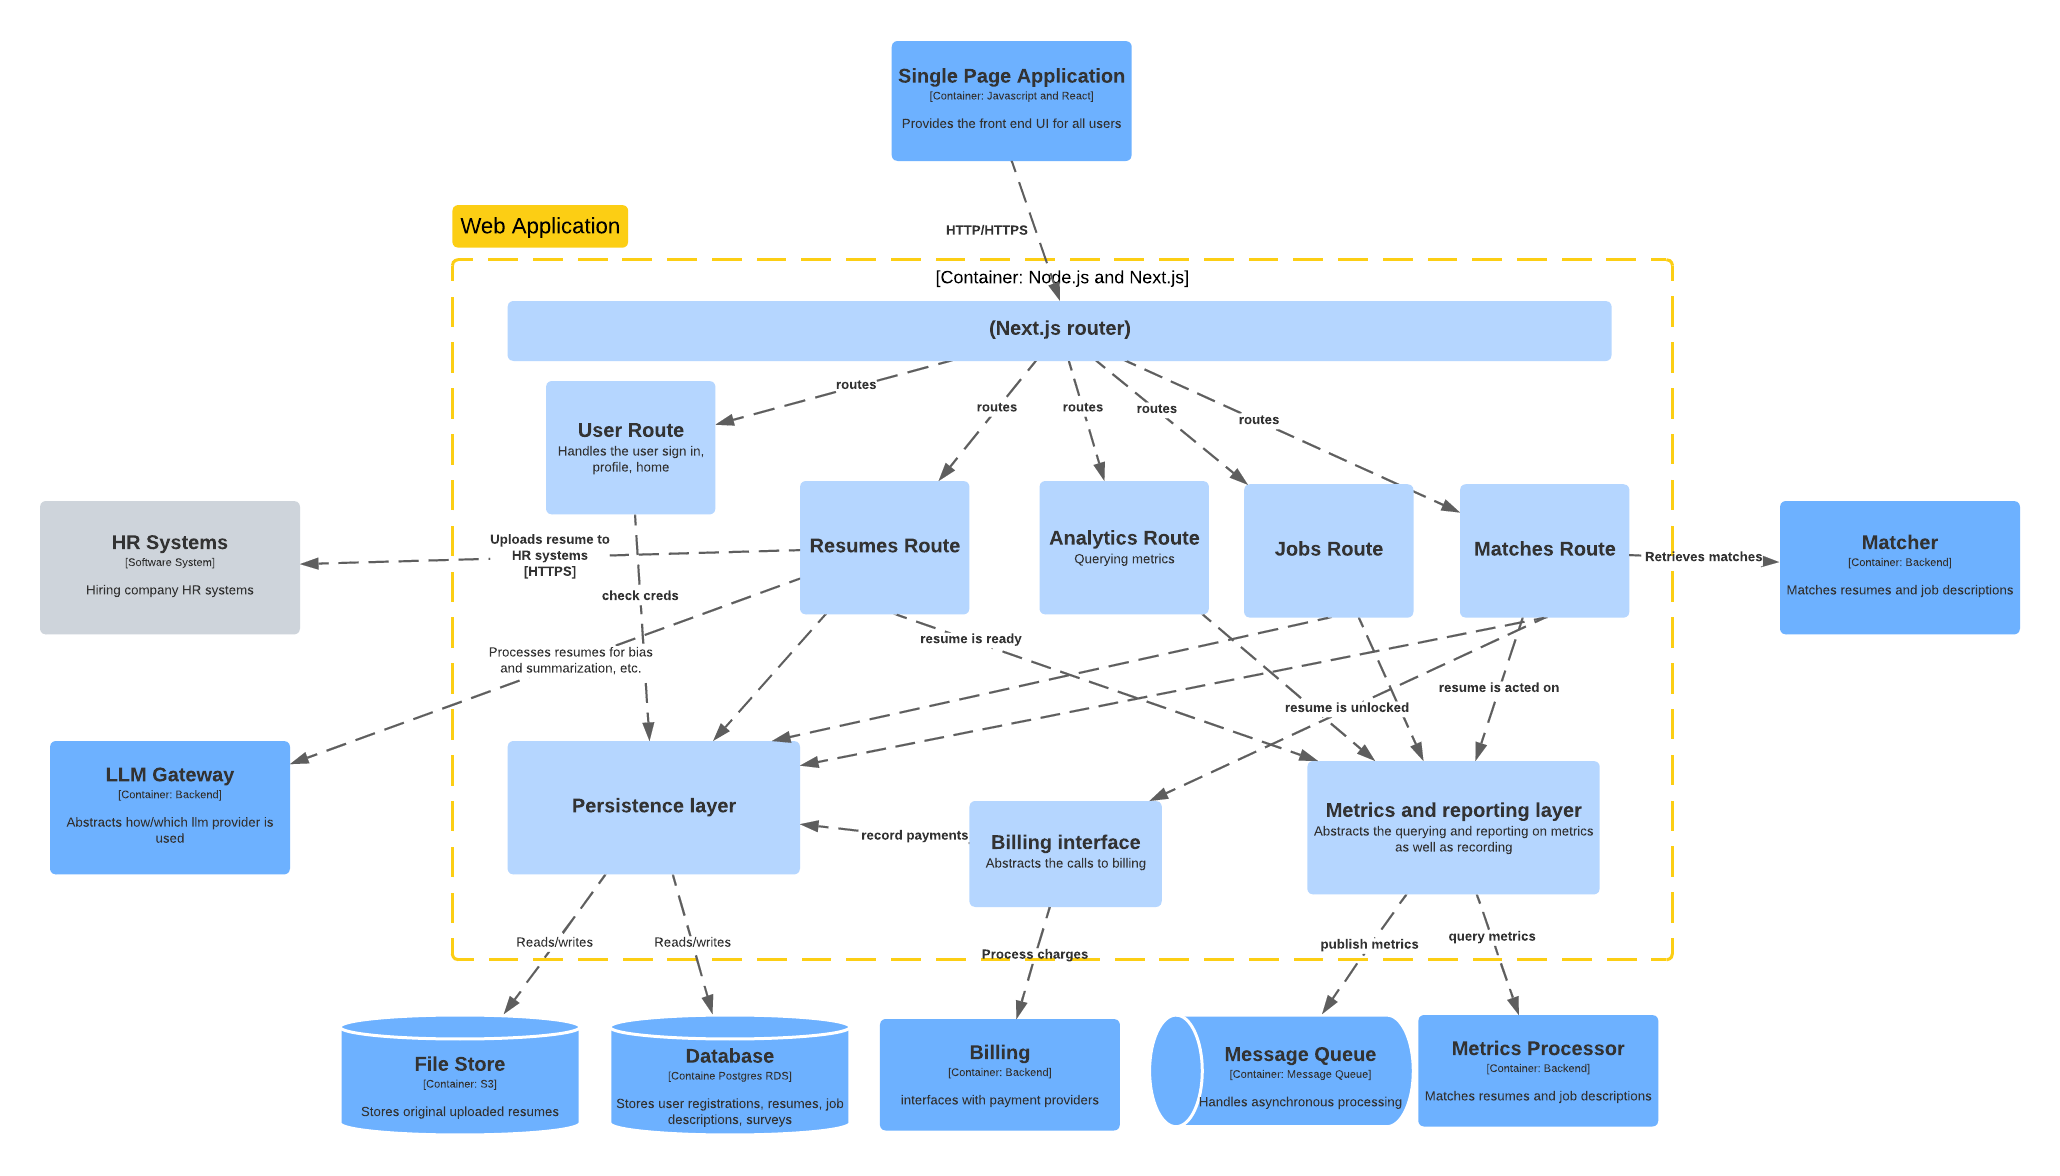
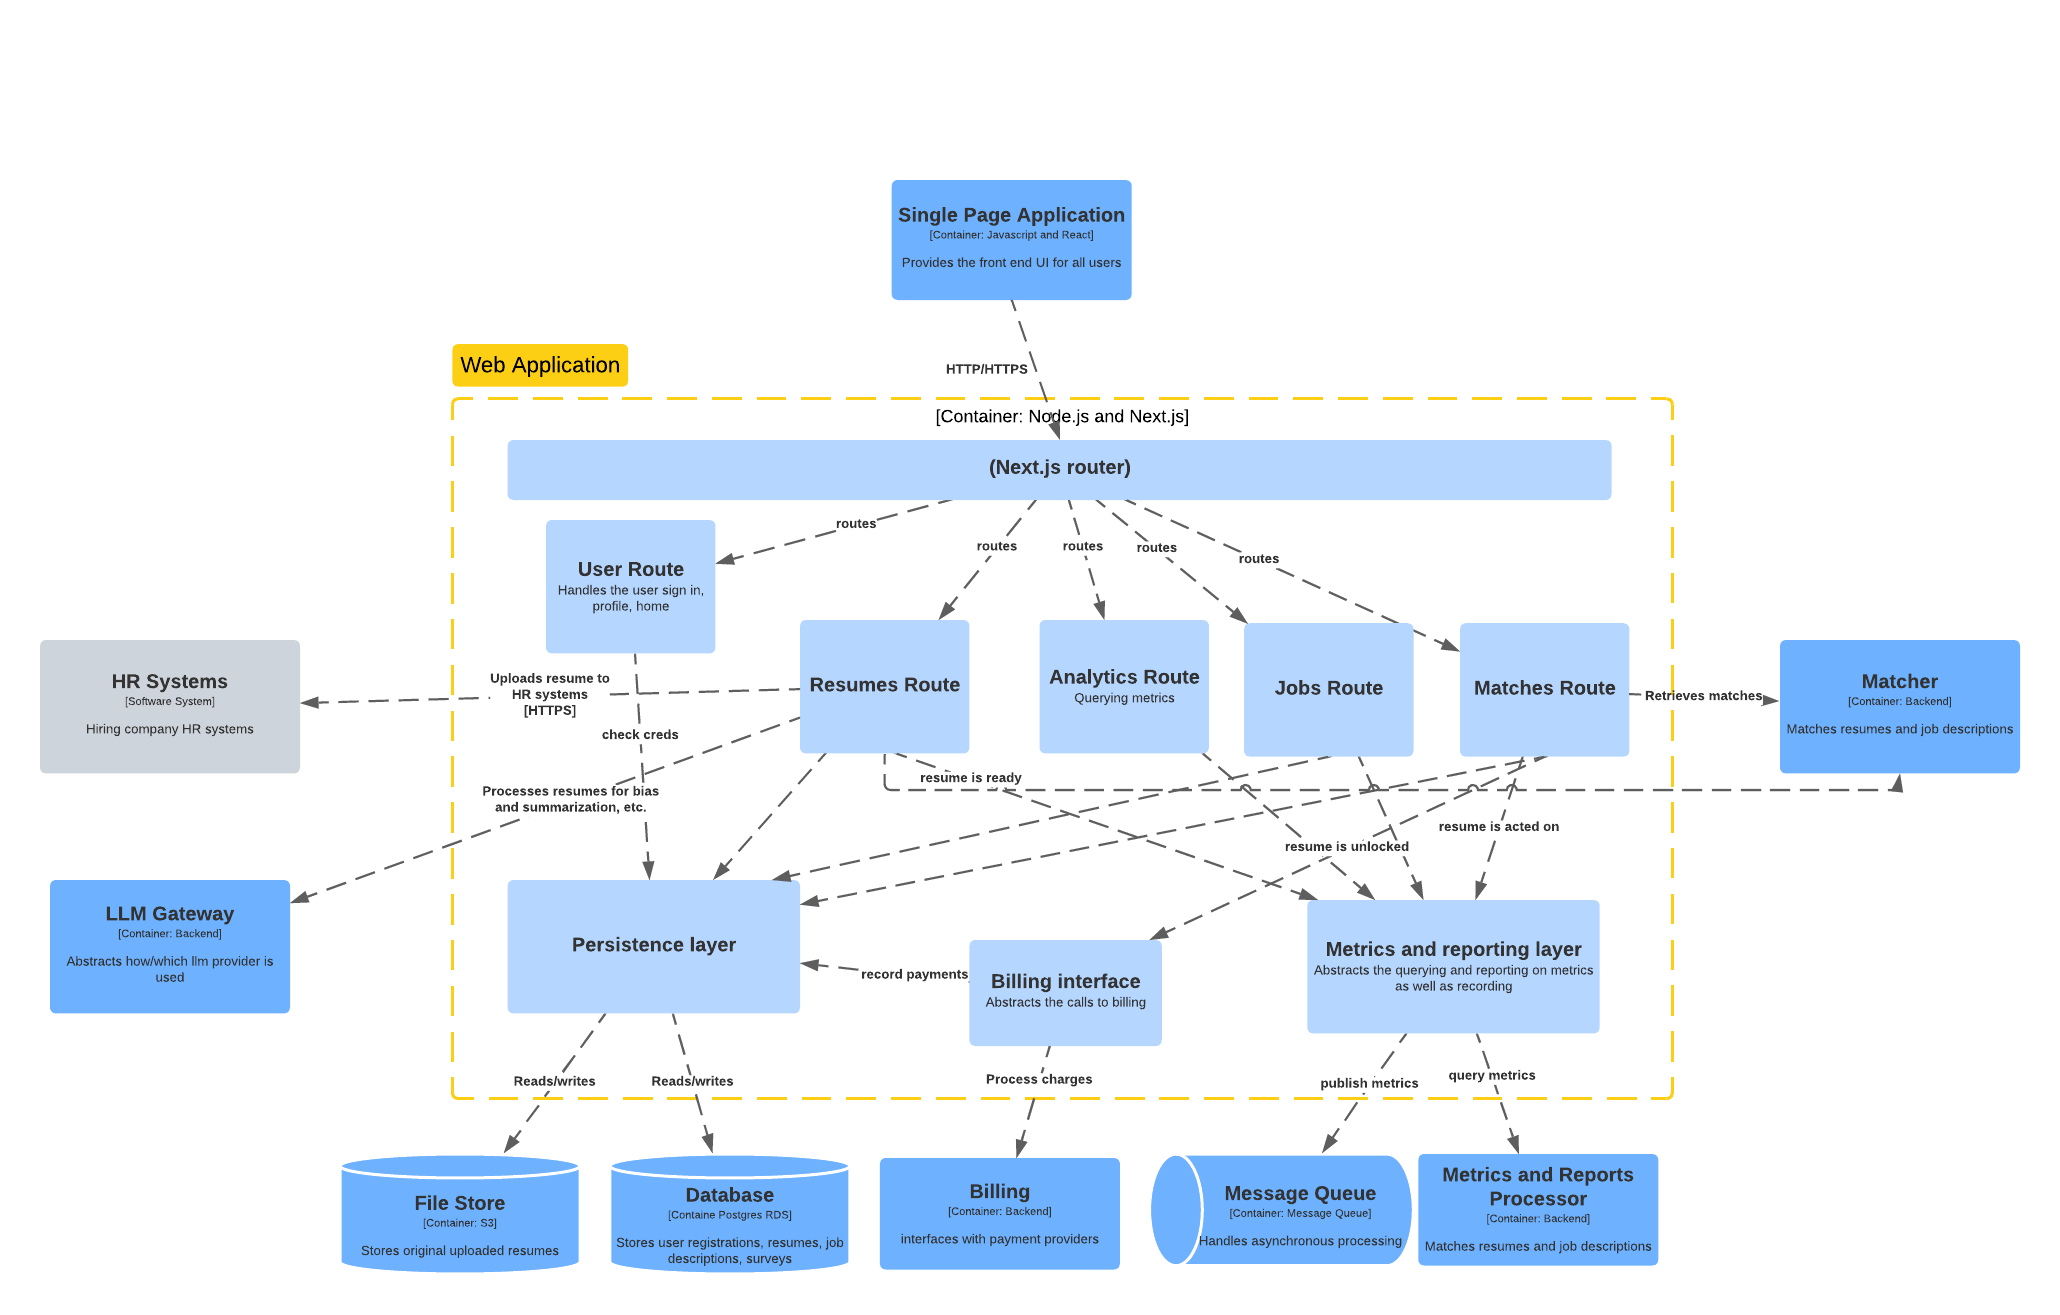
Update notes

Changed region(s): [[0.1553, 0.0306, 0.9942, 0.9796], [0.0, 0.4286, 0.1553, 0.7959], [0.2175, 0.1531, 0.3107, 0.2143]]

diff --git a/README.md b/README.md
@@ -167,10 +167,13 @@ Aspects of this application:
 - **Next.js router** - this is the server-side routing of requests into the Node.js server. Next.js has file-based routing that will be used.
 - **Routes** - routes contain the UI components and business logic for the particular route.
   - **Resumes route** - this handles all requests related to resumes: uploading, managing, viewing as well as summarizing and viewing suggestions.
+    - For the user to see SMART tips, the LLM gateway is called. To generate a SMART summary of the resume, we use a prompt for extracting SMART tips and recommendations, then show that to the user, so they can update their resume.
+    - Once the user marks the resume as "ready" to be submitted, the resume is anonymized and and a SMART summary is generated via the LLM gateway, then passed to the [Matcher](#matcher) service for further processing.
   - **Sign in route** - handles the authentication-specific requests for establishing user sessions. This also handles password resets and other user registration issues.
   - **Metrics route** - handles viewing and analyzing various metrics about ClearView.
   - **Billing route** - handles everything relating to billing and charging customers for resumes.
   - **Matches route** - exposes the ability to query matches for job descriptions and resumes.
+    - This queries the [matcher](#matcher) service for any
   - **Jobs route** - handles requests about jobs and descriptions. This allows CRUD on job descriptions.
 - **Persistence layer** - abstracts persistence to database/file store.
 - **Metrics layer** - abstracts persistence and querying of metrics.
@@ -301,6 +304,8 @@ Elastic Observability - [ADR-Elastic-for-observability](./ADRs/ADR-Elastic-for-o
 PagerDuty - PagerDuty is pretty much the de-facto standard for building an alert based notification system for ensuring timely and proactive responses to operational issues.
 
 ## Architectural Style
+We chose simplicity, reliability and accuracy in the [architectural characteristics](#architectural-characteristics). Service-based architecture seemed the best solution while maintaining some level of simplicity. By choosing Next.js for the front end and web [application](#application), this fits with a simple experience. We then have supporting services and databases utilized by the Next.js backend.
+
 ![architecture-styles-worksheet](./resources/architecture-styles-worksheet.png)
 TODO - Add some blurb here. 
 
